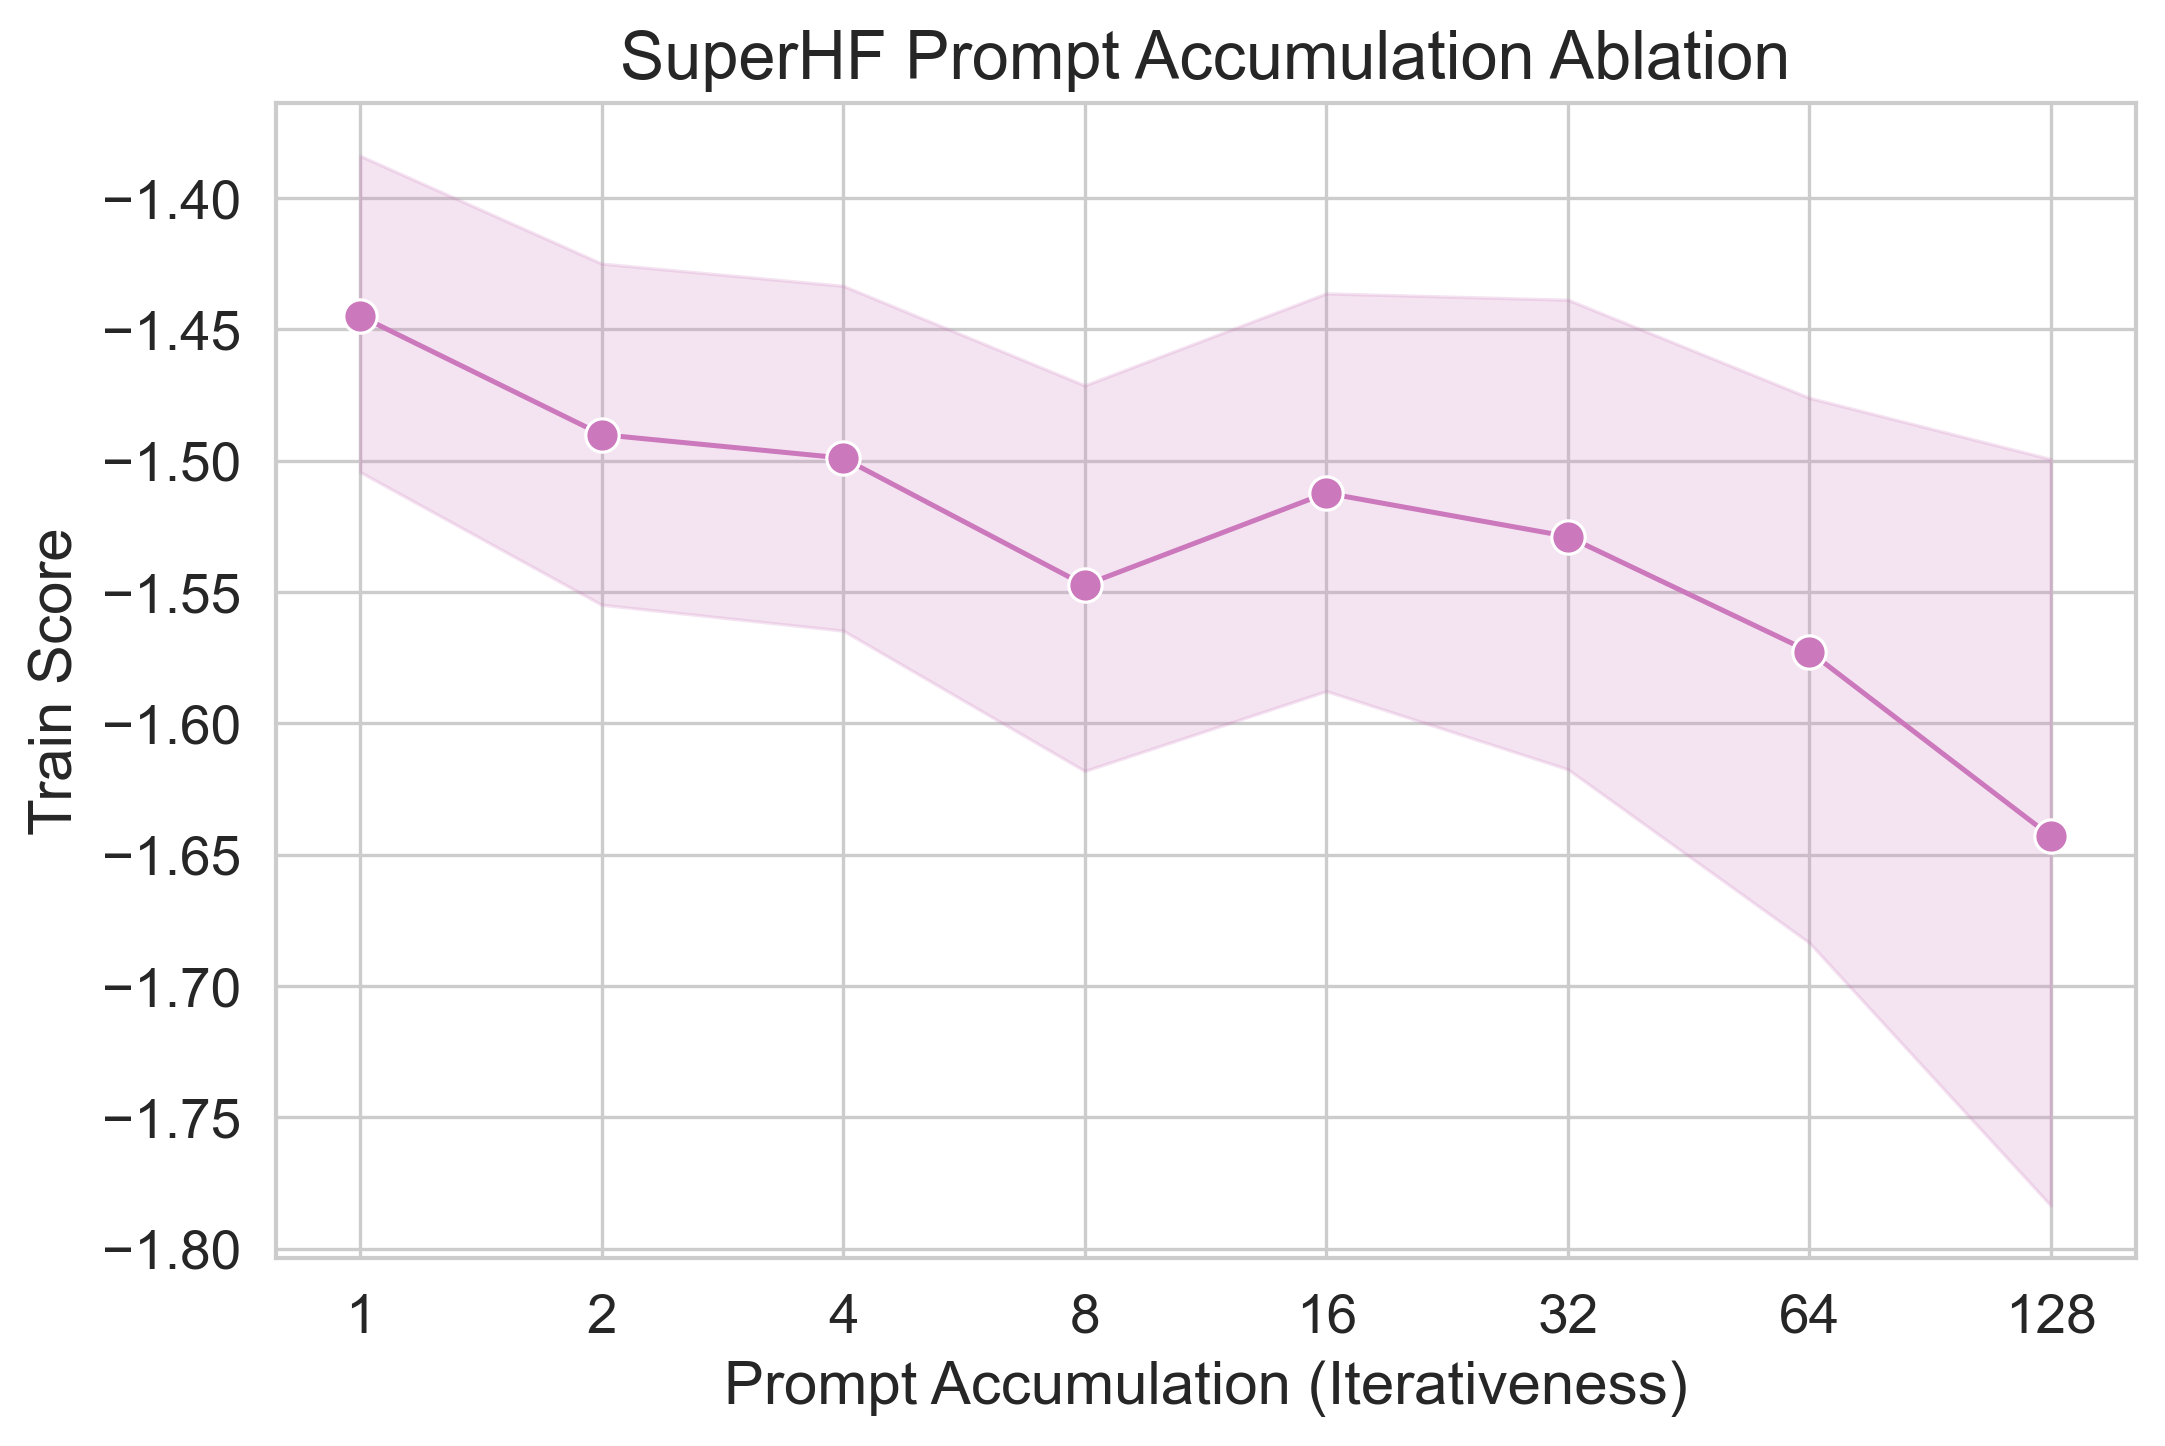
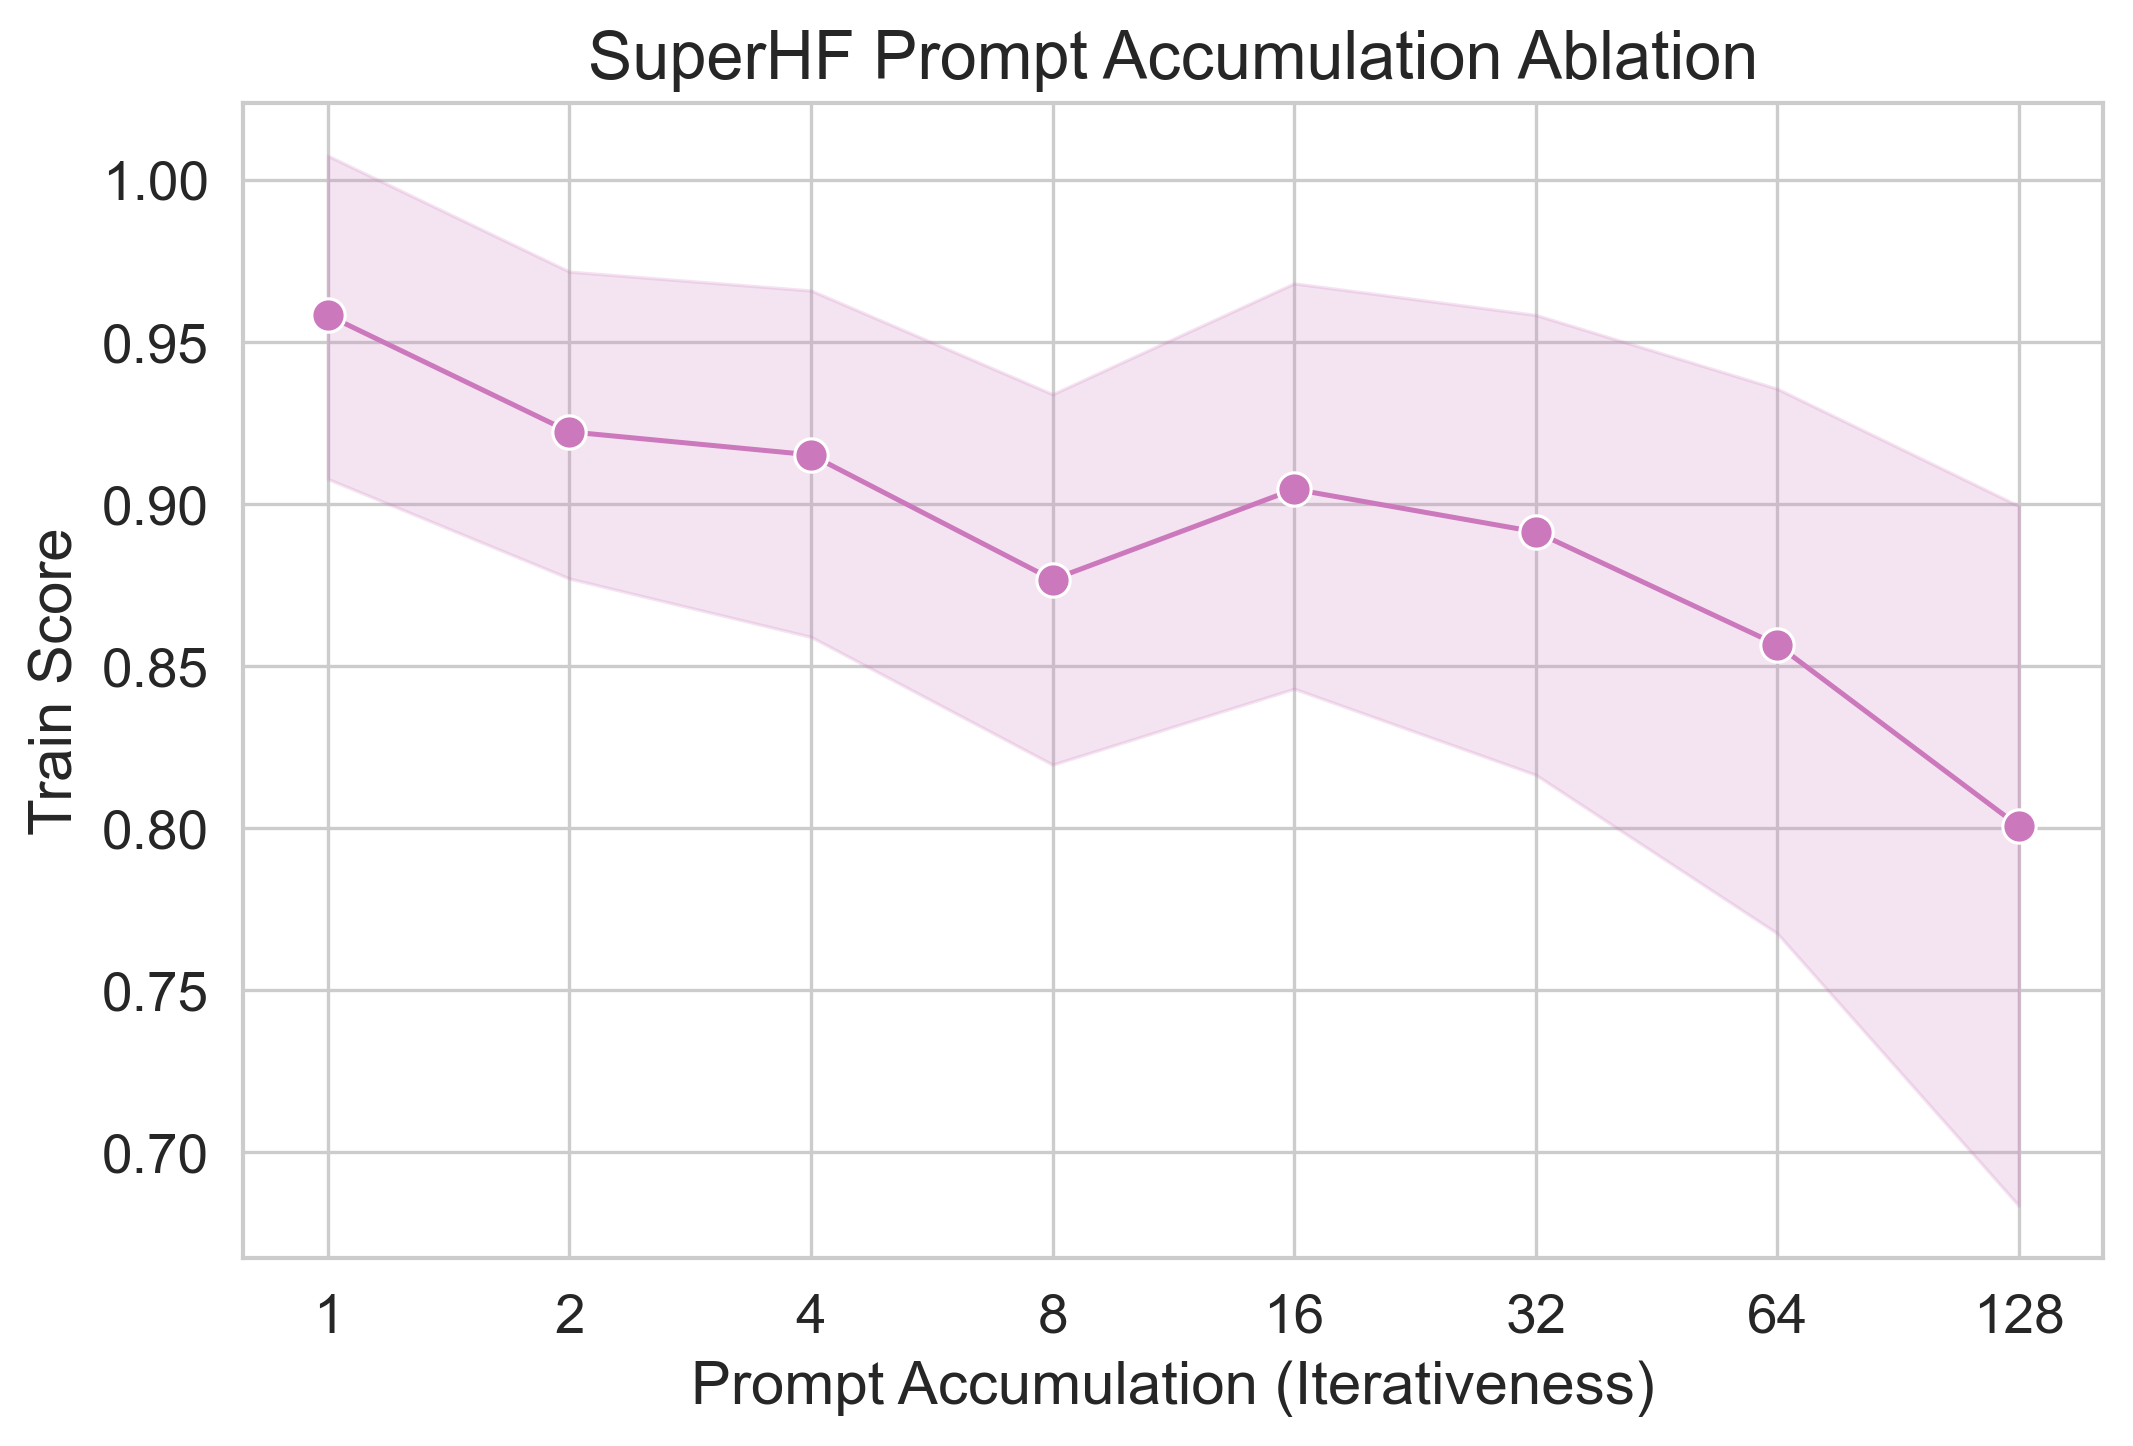
normalize

diff --git a/charts/prompt_accumulation_train.py b/charts/prompt_accumulation_train.py
@@ -11,6 +11,7 @@ from chart_utils import (
     initialize_plot,
     model_type_to_palette_color,
     save_plot,
+    normalize_train_scores,
 )
 
 INPUT_FILE = "./charts/data/accum_train_scores.csv"
@@ -49,9 +50,12 @@ def main() -> None:
     # Drop empty strings, convert strings to floats, put in a dataframe
     accums_to_scores = []
     for accum, scores in new_data.items():
+        if accum in DENYLIST:
+            continue
+        scores = [float(score) for score in scores if score != ""]
+        scores = normalize_train_scores(scores)
         for score in scores:
-            if score != "" and int(accum) not in DENYLIST:
-                accums_to_scores.append([float(accum), float(score)])
+            accums_to_scores.append([accum, score])
     assert len(accums_to_scores) > 0
 
     dataframe = pd.DataFrame(
